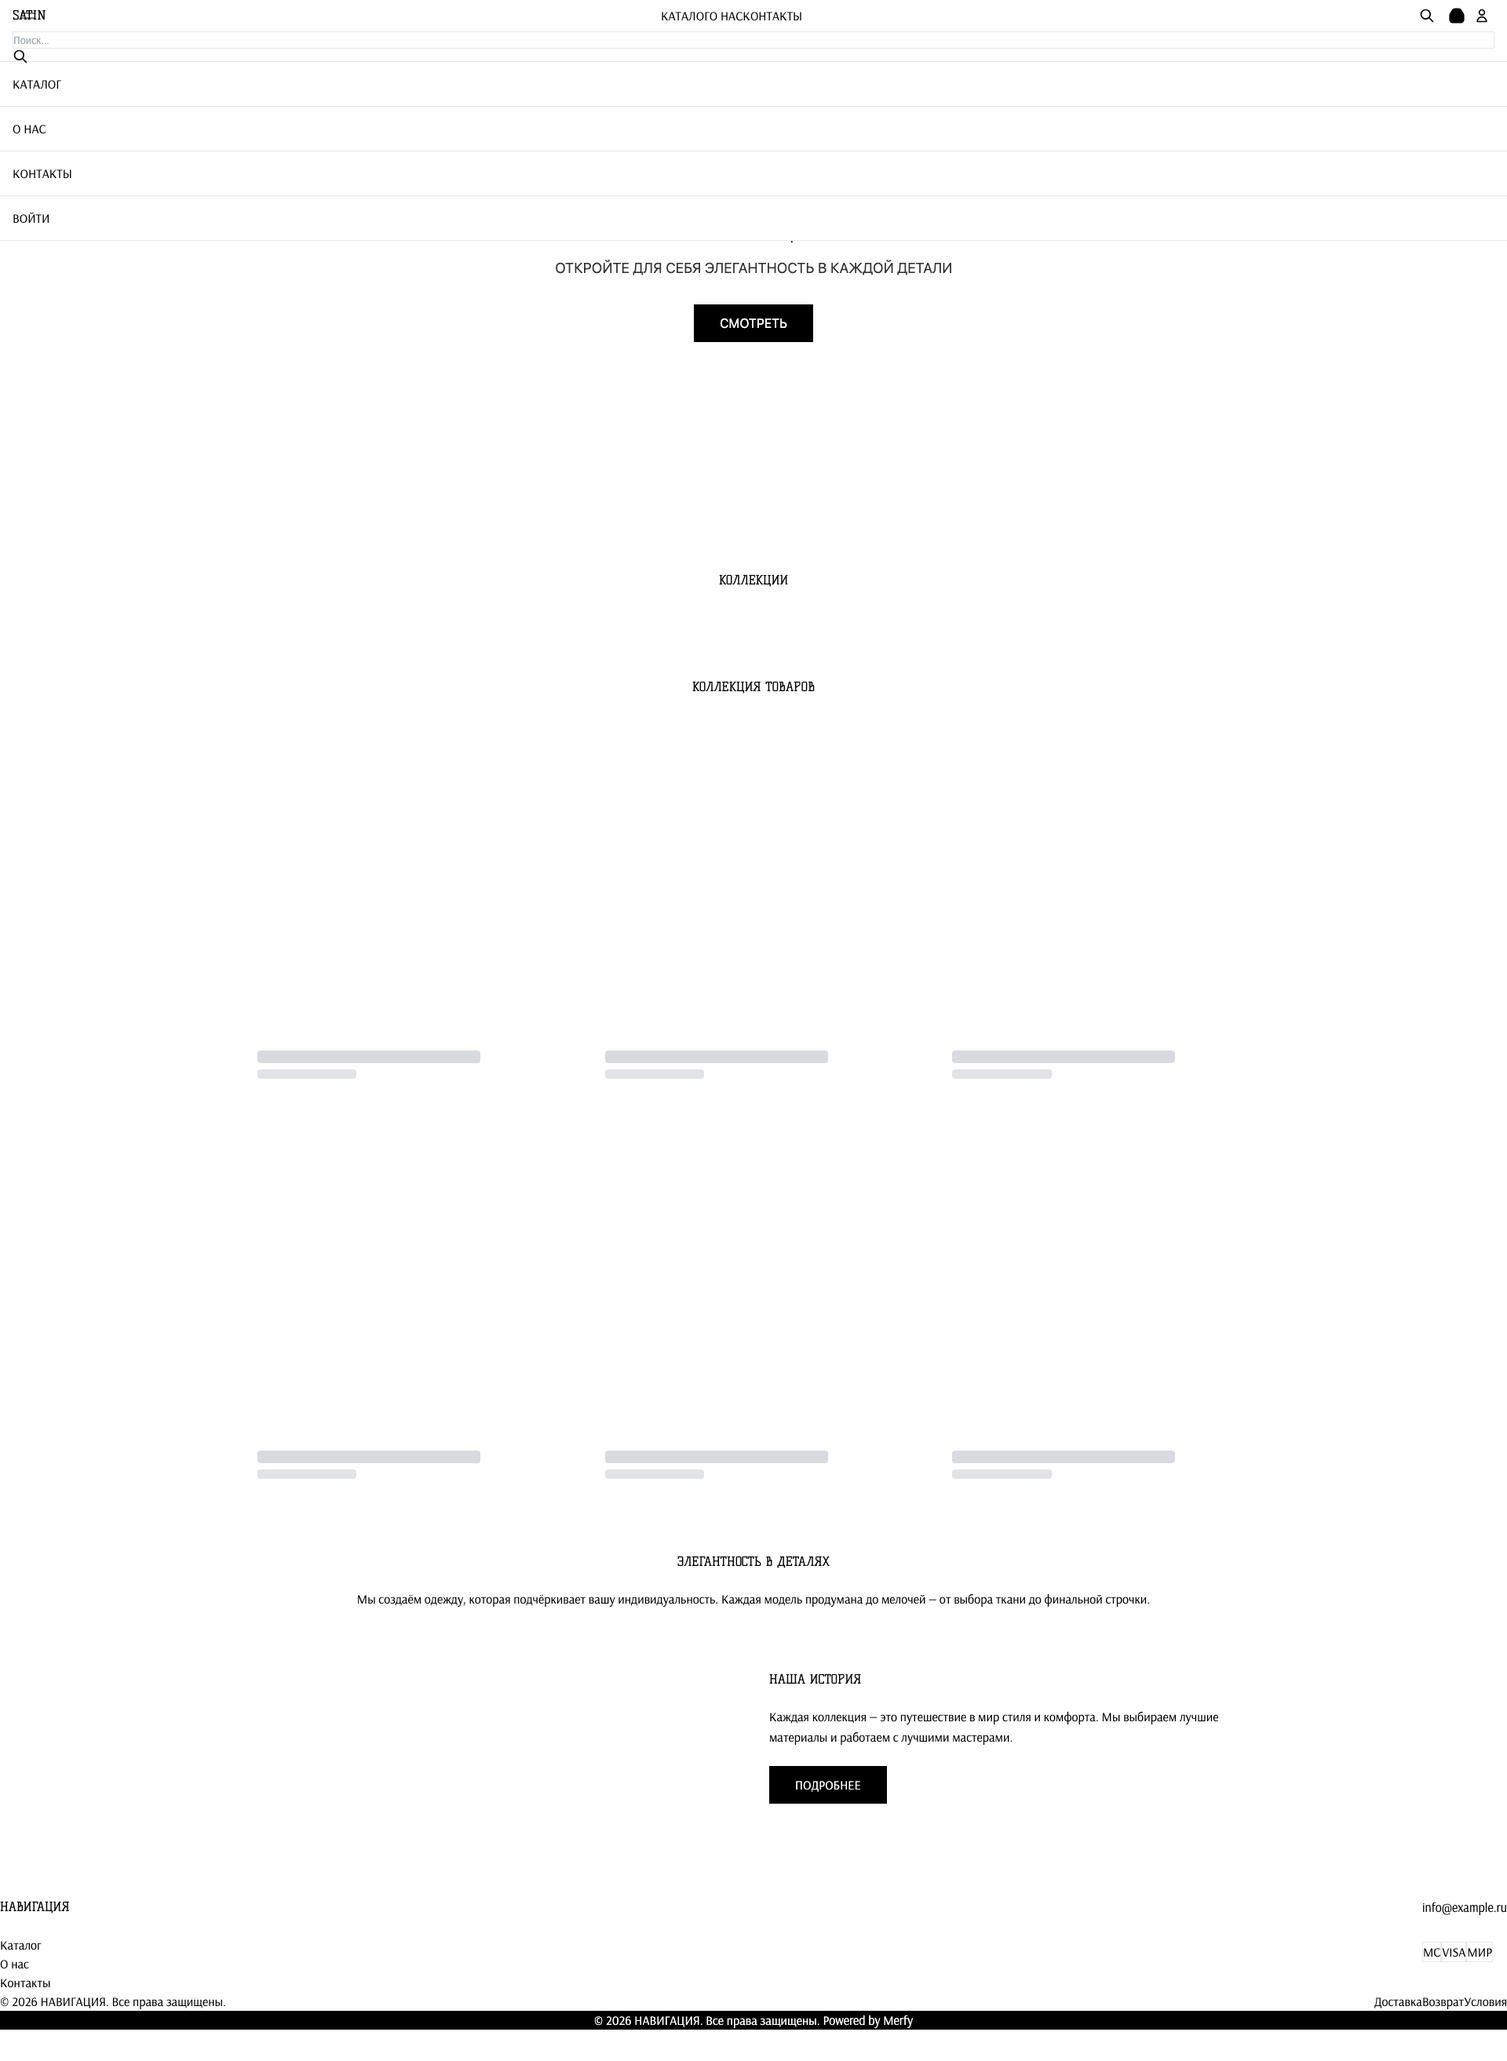
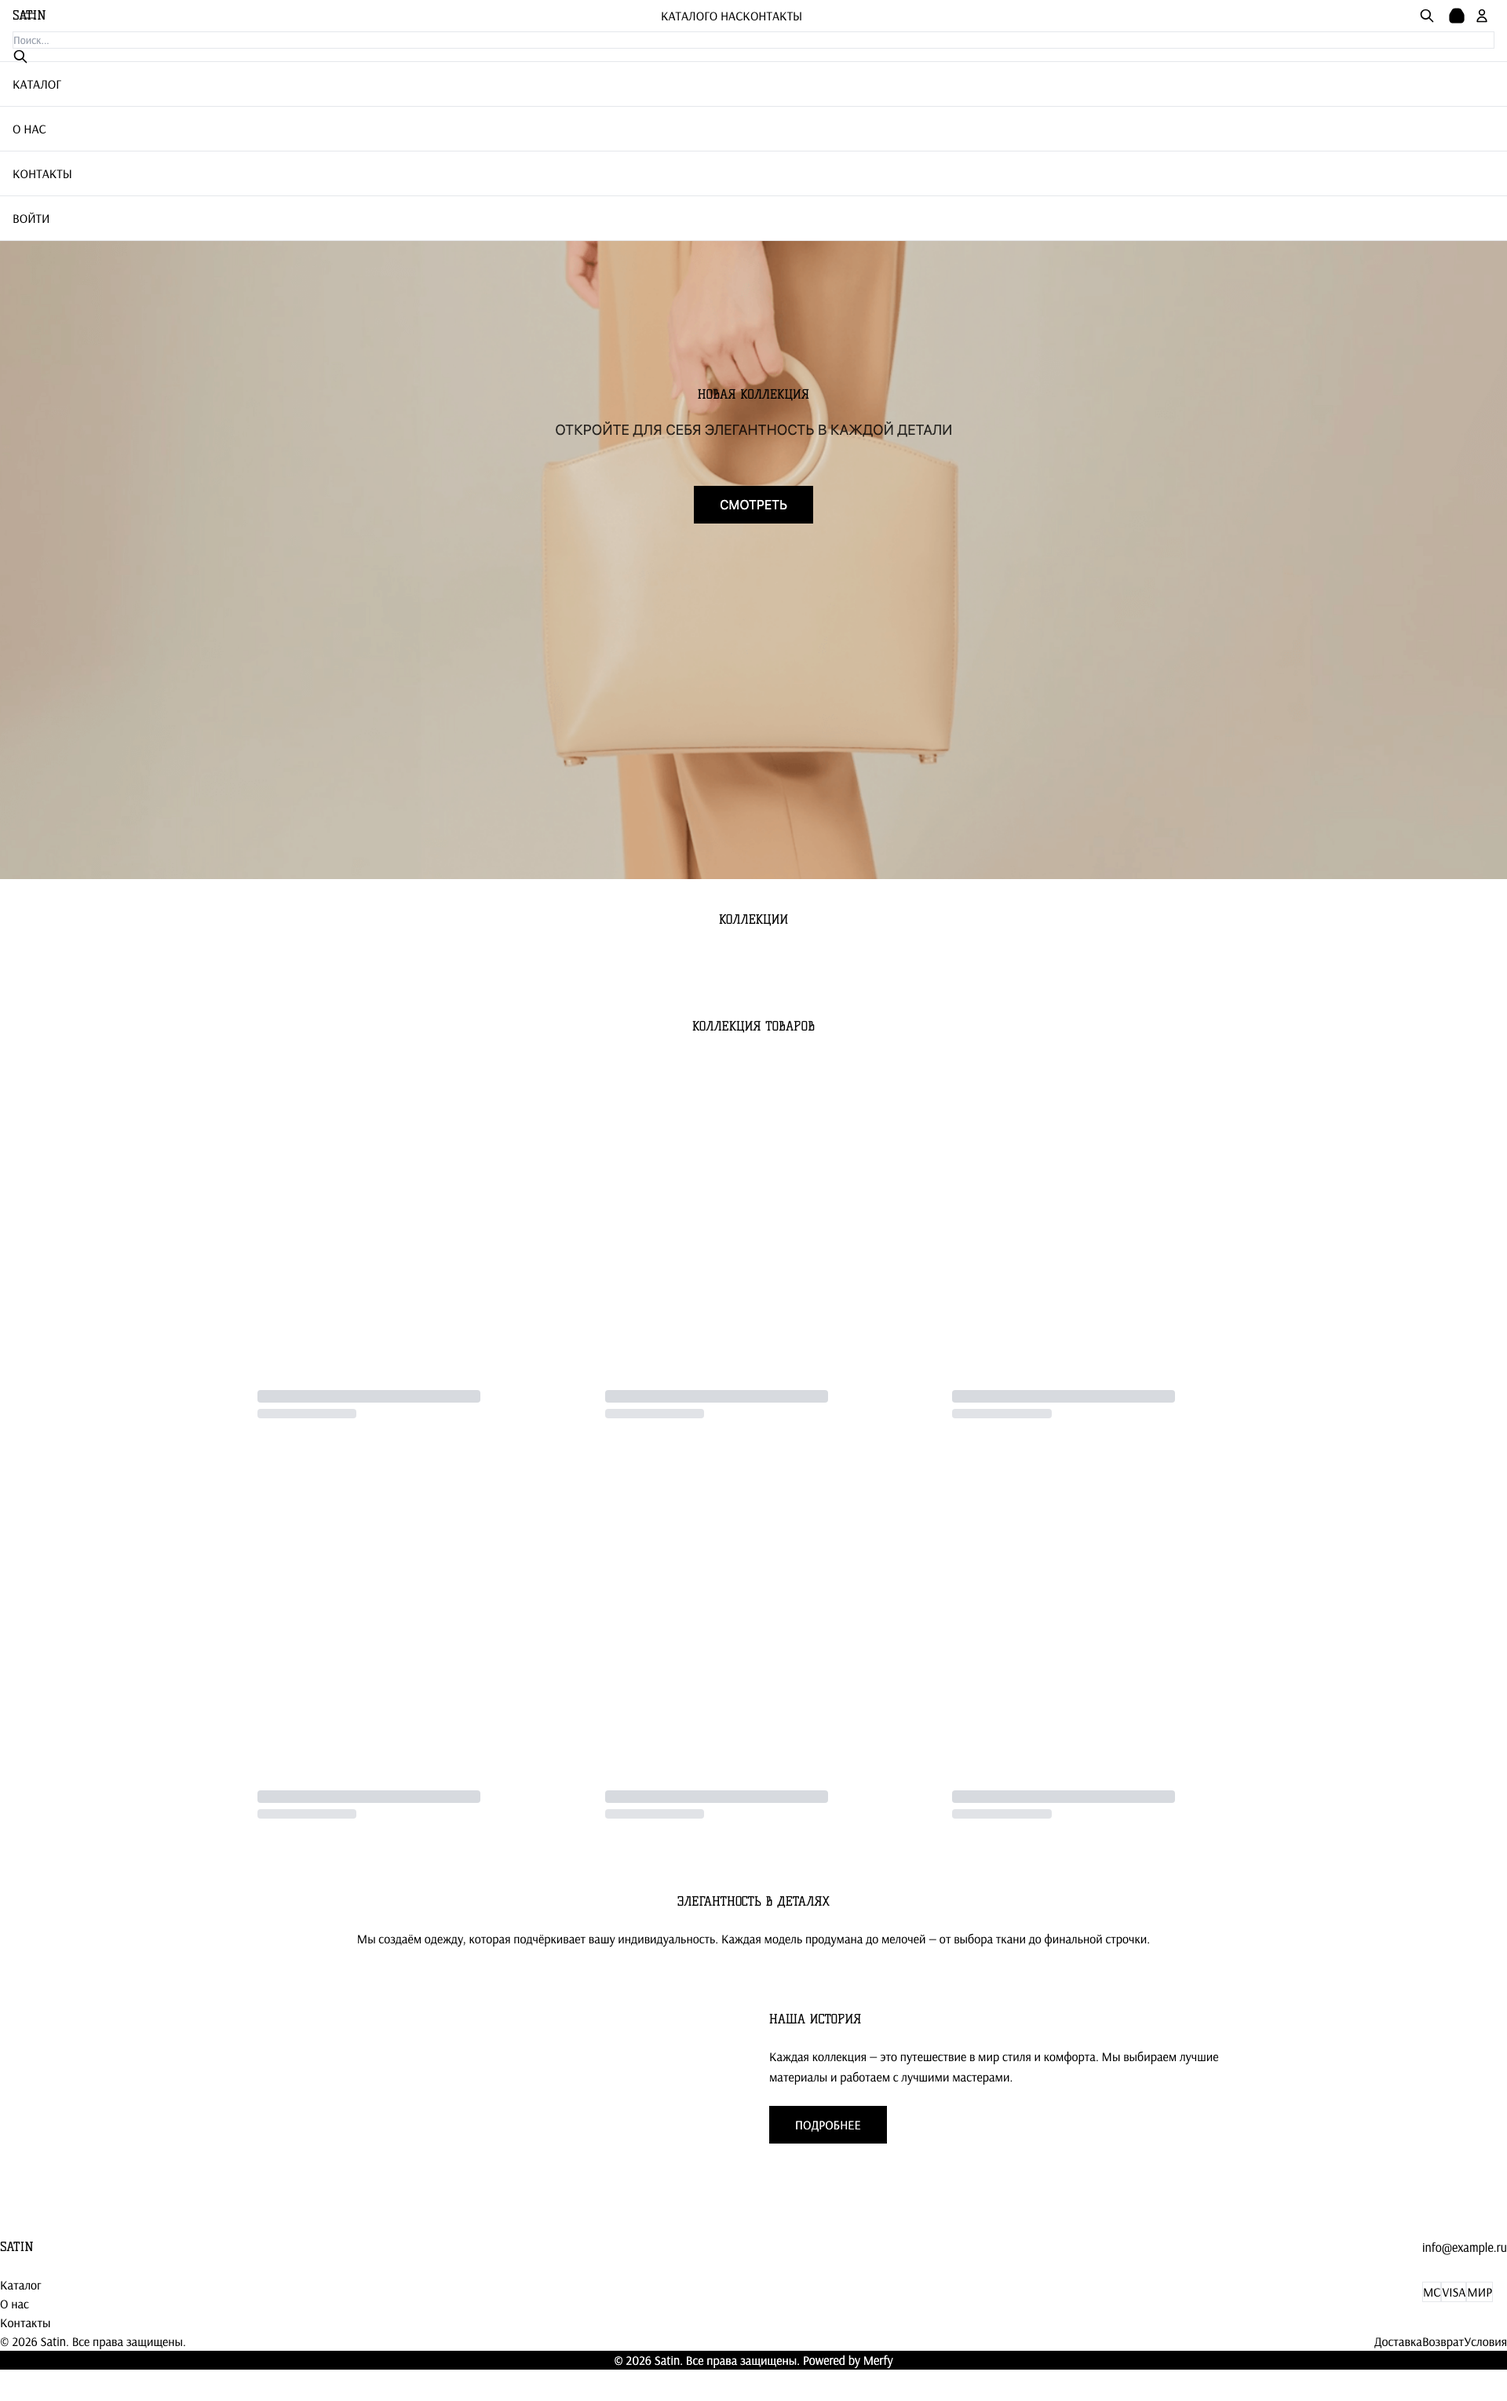
fix(079): normalise color-scheme CSS class id
Merchant schemes store id as "scheme-1" but blocks attach the
className via a numeric colorScheme (\`color-scheme-1\`). The CSS
rule was emitted as \`.color-scheme-scheme-1\` which never matched.
Strip the "scheme-" prefix in buildSchemeRule/buildThemeSchemeRule
and in the merchantById map keys so theme-base blocks get their
palette.

visual-diff loader waits for load + 1.5s so hero background-image
lands before the screenshot.

diff --git a/src/controllers/preview.controller.ts b/src/controllers/preview.controller.ts
@@ -632,8 +632,10 @@ function buildTokensCss(settings: unknown, themeId: string | null): string {
   const merchantById = new Map<string, Record<string, unknown>>();
   for (const raw of merchantSchemes) {
     if (isPlainObject(raw) && typeof (raw as Record<string, unknown>).id === 'string') {
+      // Key by normalised class id so lookups hit regardless of whether the
+      // merchant stored "scheme-1" (legacy) or "1" (new shape).
       merchantById.set(
-        String((raw as Record<string, unknown>).id),
+        schemeClassId(String((raw as Record<string, unknown>).id)),
         raw as Record<string, unknown>,
       );
     }
@@ -642,11 +644,12 @@ function buildTokensCss(settings: unknown, themeId: string | null): string {
 
   const schemeRuleLines: string[] = [];
   for (const themeScheme of themeSchemes) {
-    const merchant = merchantById.get(themeScheme.id);
+    const key = schemeClassId(themeScheme.id);
+    const merchant = merchantById.get(key);
     if (merchant) {
       const rule = buildSchemeRule(merchant);
       if (rule) schemeRuleLines.push(rule);
-      merchantById.delete(themeScheme.id);
+      merchantById.delete(key);
     } else {
       schemeRuleLines.push(buildThemeSchemeRule(themeScheme));
     }
@@ -704,6 +707,13 @@ function fontFamily(v: unknown, fallback: string): string {
  * `tokens` map. We emit them straight into a `.color-scheme-<id>` block —
  * no hex → rgb conversion needed.
  */
+function schemeClassId(id: string): string {
+  // Both "scheme-1" and "1" should become "1" so blocks (which use a numeric
+  // colorScheme) and merchant schemes (legacy "scheme-N" strings) produce the
+  // same `.color-scheme-<n>` selector.
+  return id.replace(/^scheme-/, '');
+}
+
 function buildThemeSchemeRule(scheme: {
   id: string;
   tokens: Record<string, string>;
@@ -712,7 +722,7 @@ function buildThemeSchemeRule(scheme: {
     ([k, v]) => `${k}: ${v}`,
   );
   if (pairs.length === 0) return '';
-  return `.color-scheme-${scheme.id} { ${pairs.join('; ')}; }`;
+  return `.color-scheme-${schemeClassId(scheme.id)} { ${pairs.join('; ')}; }`;
 }
 
 /**
@@ -758,7 +768,7 @@ function buildSchemeRule(scheme: Record<string, unknown>): string {
   if (!id) return '';
   const vars = schemeToVars(scheme);
   if (!vars) return '';
-  return `.color-scheme-${id} {${vars}}`;
+  return `.color-scheme-${schemeClassId(id)} {${vars}}`;
 }
 
 function schemeVarsInRoot(scheme: Record<string, unknown>): string {
